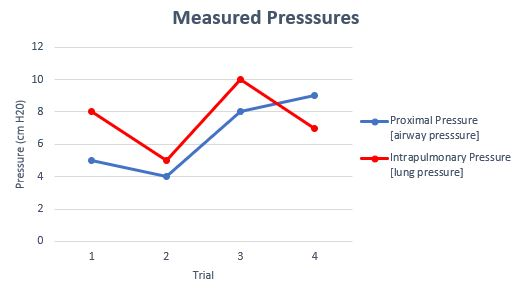
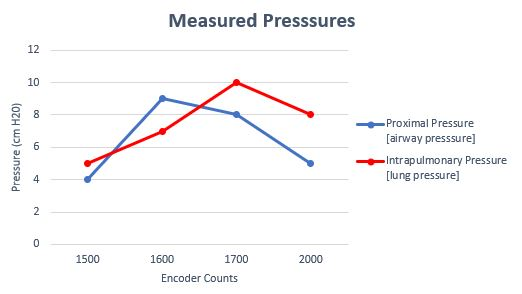
A few more changes to Blog posts

diff --git a/_posts/2020-02-07-seventh_update.md b/_posts/2020-02-07-seventh_update.md
@@ -11,16 +11,16 @@ title: Feb 7 - Conestoga Visit - 1
 <p align="center">
   <iframe width="560" height="315" src="https://www.youtube.com/embed/Ua4sCcsDB1g" frameborder="0" allow="accelerometer; autoplay; encrypted-media; gyroscope; picture-in-picture" allowfullscreen></iframe>
 </p>
-&nbsp;
 
-- A series of trials were conducted with this setup. The data we gathered showed us what we need to do to improve our design. As previously suspected, even though the bag is being squeezed quite a lot, the total volume of air our setup can deliver is just over 300 mL on average. The target volume for the selected parameters is 500 mL. The motor torque stalls out before the bag is fully compressed, however another observation was also made. the pressure point contacts between the strap and bag are focused on one location instead of being spread out more like a hand. this results in less overall compression for a given strap tightness. We will need to adjust this aspect moving forward.
+- A series of trials were conducted with this setup. Each trial corresponds to a set number of encoder counts to drive the motor for. The values were observed for multiple cycles of operation and then averaged. Note that for a desired 2000 encoder counts, the motor did not reach the target location and stalled due to the load torque.
+
+- The data we gathered showed us what we need to do to improve our design. As previously suspected, even though the bag is being squeezed quite a lot, the total volume of air our setup can deliver is just over 300 mL on average. The target volume for the selected parameters is 500 mL. The motor torque stalls out before the bag is fully compressed, however another observation was also made. the pressure point contacts between the strap and bag are focused on one location instead of being spread out more like a hand. this results in less overall compression for a given strap tightness. We will need to adjust this aspect moving forward.
 
 - Also, the pressure delivered at both the airway and the lungs was quite low. Currently, the motor is being driven at 10.8 V but it's full power is 12 V. We would need to acquire a full 12 V motor driver to fix this, or hopefully, the new servo should be sufficiently strong and fast.
 
 <figure align="center">
-  <img src="/assets/img/Volume_Test_1.JPG" width="300" />
-  <img src="/assets/img/Pressure_Test_1.JPG" width="300" />
+  <img src="/assets/img/Volume_Test_1.JPG" width="500" />
+  <img src="/assets/img/Pressure_Test_1.JPG" width="500" />
 </figure>
-
 
 - These observations will be used to modify the design moving forward. Our goal is to finalize the design next week and produce a full prototype for more extensive testing. We have already confirmed with the Respiratory Therapy Lab that we could return to perform more testing as required.

diff --git a/_posts/2020-02-20-eigth_update.md b/_posts/2020-02-20-eigth_update.md
@@ -4,10 +4,10 @@ title: Feb 20 - Potentiometer Adjustment Dials
 ---
 # Feb 20 - Potentiometer Adjustment Dials
 
-- BVM operation often requires adjustment to the breath rate, delivered volume, and pressure of compressions. In order to allow users to adjust settings, potentiometer dials are used.
+- BVM operation often requires adjustment to the breath rate, delivered volume, and pressure of compressions. In order to allow users to adjust settings, potentiometer dials will be used.
 
 - Each setting has a "typical" value and reasonable adjustment offset coded into the system. Spinning the potentiometer one way will increase that setting's output, and the other way will decrease, to allow fine adjustments. Existing attempts at a solution use buttons (low, medium, high) rather than potentiometers for this adjustment, restricting the possible combinations of operating settings.
 
-- An interesting thing to note is that the Servo motor being used says 270 degrees rotation, but in actuality it is about 250 degrees (measured with protractor). Also, the library controlling the Servo only accepts rotation commands of 0 to 180. Therefore, the desired position in the physical range of the Servo must be mapped to a value in the programmable range of the Servo (i.e `pos_to_write = map(desired_pos, 0, 250, 0, 180)`).
+- An interesting thing to note is that the Servo motor being used claims 270 degrees of rotation, but in actuality it is about 250 degrees (measured with protractor). Also, the library controlling the Servo only accepts rotation commands from 0 to 180. Therefore, the desired position in the physical range of the Servo must be mapped to a value in the programmable range of the Servo (i.e `pos_to_write = map(desired_pos, 0, 250, 0, 180)`).
 
 - The software has been written and tested. It is currently in a state where the system acts correctly according to the potentiometer dials. However, the typical and adjustment values currently coded are for demonstration purposes only. More research will need to go into what these values should be, and then testing at Conestoga College will lead to system identification so that we can reliably achieve these values.

diff --git a/_posts/2020-02-01-fifth_update.md b/_posts/2020-02-01-fifth_update.md
@@ -12,7 +12,6 @@ title: Feb 1 - Motor Characterization
   <img src="/assets/img/motor_sim.JPG" width="500" />
 </figure>
 
-
 - Now that the motor has been modeled, simulations can be run to determine an optimal controller to use within the code.
 
 - A servo motor has also been ordered for testing. The servo has a maximum torque of about 21.5 kg-cm, or 1.96 Nm. This is slightly higher than the torque of the DC motor
